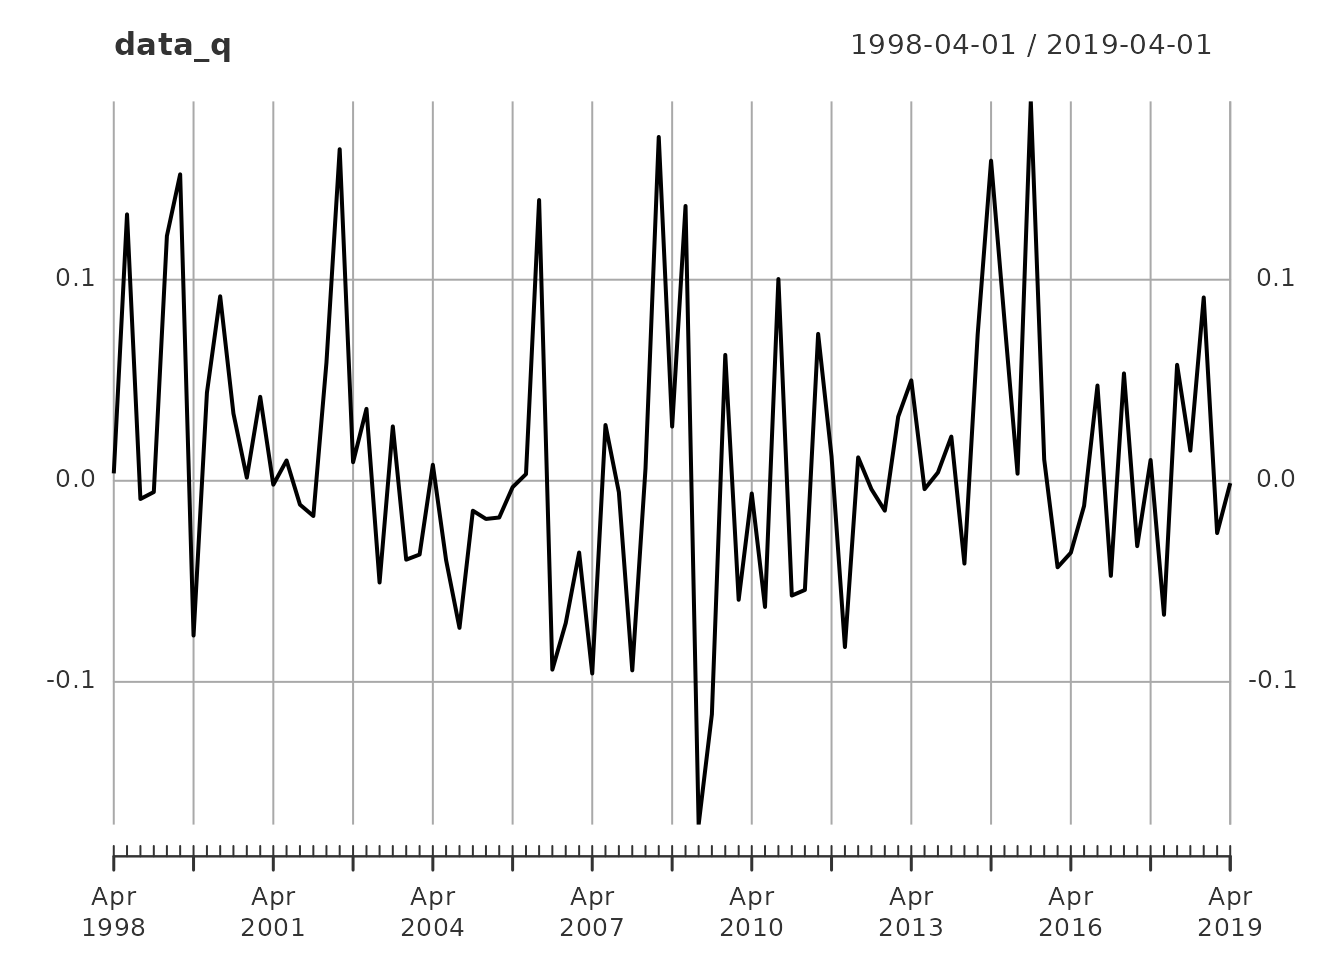
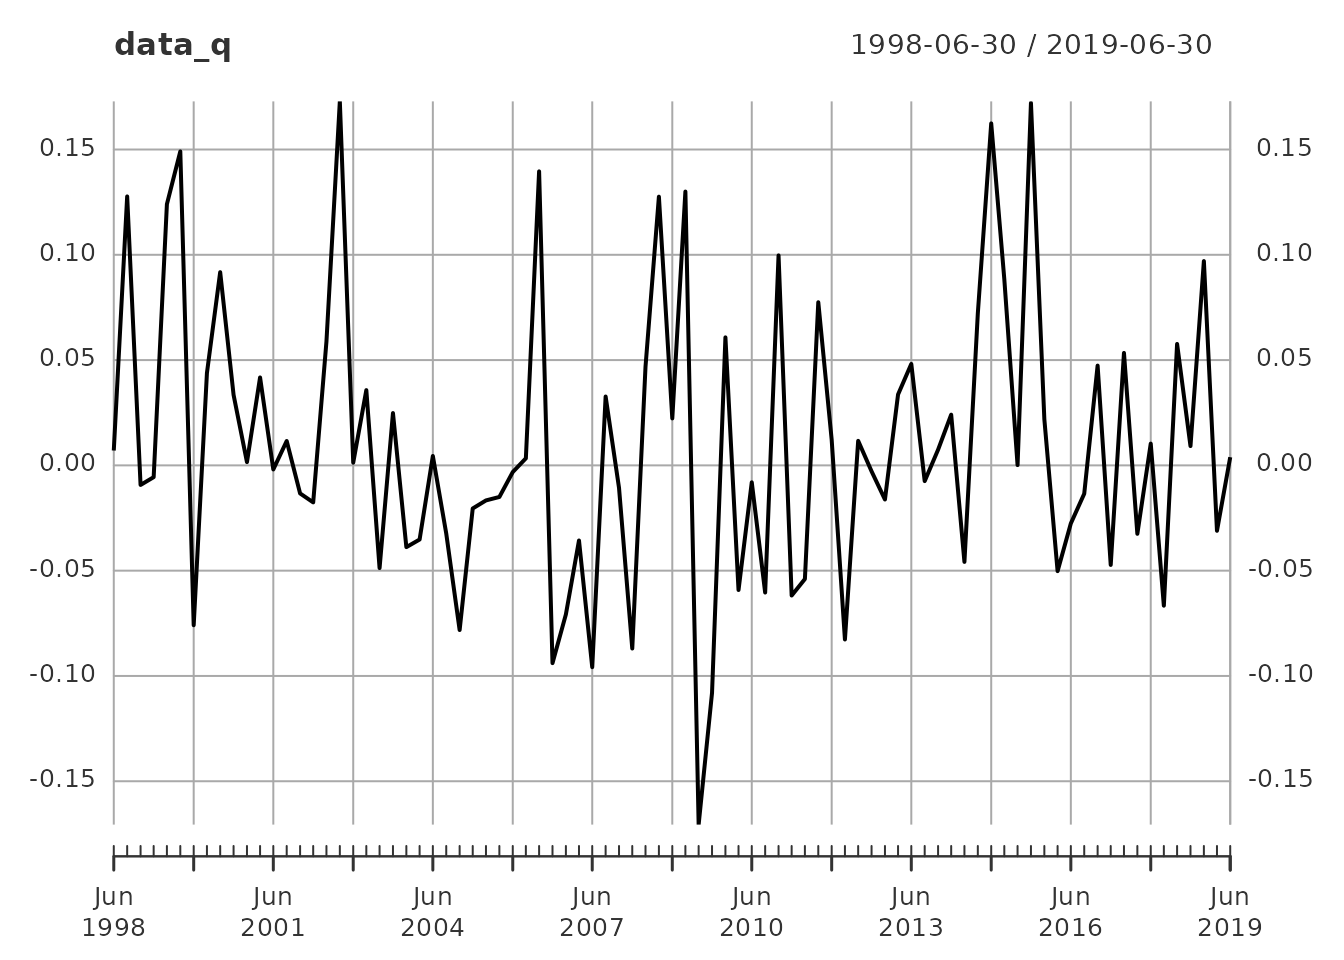
Deploying to gh-pages from @ DavRodEcon/citmre@9d1c96cf8fecd703104b880e12ba91e42f415033 🚀

diff --git a/articles/citmre.html b/articles/citmre.html
@@ -197,20 +197,20 @@ By default, the <code>type</code> is set to <code>last_date</code>.</p>
 <span><span class="va">data_m</span> <span class="op">&lt;-</span> <span class="fu"><a href="../reference/rmre_data.html">rmre_data</a></span><span class="op">(</span>start_date <span class="op">=</span> <span class="st">"1998-03-18"</span>, end_date <span class="op">=</span> <span class="st">"2019-06-26"</span>,frequency <span class="op">=</span> <span class="fl">12</span><span class="op">)</span></span>
 <span><span class="fu"><a href="https://rdrr.io/r/utils/head.html" class="external-link">head</a></span><span class="op">(</span><span class="va">data_m</span><span class="op">)</span></span>
 <span><span class="co">#&gt;               rmre</span></span>
-<span><span class="co">#&gt; 1998-03-01 1358.03</span></span>
-<span><span class="co">#&gt; 1998-04-01 1365.72</span></span>
-<span><span class="co">#&gt; 1998-05-01 1396.69</span></span>
-<span><span class="co">#&gt; 1998-06-01 1363.04</span></span>
-<span><span class="co">#&gt; 1998-07-01 1370.65</span></span>
-<span><span class="co">#&gt; 1998-08-01 1440.87</span></span>
+<span><span class="co">#&gt; 1998-03-31 1360.26</span></span>
+<span><span class="co">#&gt; 1998-04-30 1365.72</span></span>
+<span><span class="co">#&gt; 1998-05-31 1397.07</span></span>
+<span><span class="co">#&gt; 1998-06-30 1369.88</span></span>
+<span><span class="co">#&gt; 1998-07-31 1370.65</span></span>
+<span><span class="co">#&gt; 1998-08-31 1441.86</span></span>
 <span><span class="fu"><a href="https://rdrr.io/r/utils/head.html" class="external-link">tail</a></span><span class="op">(</span><span class="va">data_m</span><span class="op">)</span></span>
 <span><span class="co">#&gt;               rmre</span></span>
-<span><span class="co">#&gt; 2019-01-01 3163.46</span></span>
-<span><span class="co">#&gt; 2019-02-01 3072.01</span></span>
-<span><span class="co">#&gt; 2019-03-01 3190.94</span></span>
-<span><span class="co">#&gt; 2019-04-01 3247.72</span></span>
-<span><span class="co">#&gt; 2019-05-01 3357.82</span></span>
-<span><span class="co">#&gt; 2019-06-01 3187.15</span></span>
+<span><span class="co">#&gt; 2019-01-31 3115.70</span></span>
+<span><span class="co">#&gt; 2019-02-28 3077.35</span></span>
+<span><span class="co">#&gt; 2019-03-31 3174.79</span></span>
+<span><span class="co">#&gt; 2019-04-30 3247.72</span></span>
+<span><span class="co">#&gt; 2019-05-31 3357.82</span></span>
+<span><span class="co">#&gt; 2019-06-30 3187.15</span></span>
 <span><span class="fu"><a href="https://rdrr.io/r/graphics/plot.default.html" class="external-link">plot</a></span><span class="op">(</span><span class="va">data_m</span><span class="op">)</span></span></code></pre></div>
 <p><img src="citmre_files/figure-html/plot_456-1.png" width="672" style="display: block; margin: auto;"></p>
 <div class="sourceCode" id="cb6"><pre class="downlit sourceCode r">
@@ -219,20 +219,20 @@ By default, the <code>type</code> is set to <code>last_date</code>.</p>
 <span><span class="va">data_q</span> <span class="op">&lt;-</span> <span class="fu"><a href="../reference/rmre_data.html">rmre_data</a></span><span class="op">(</span>start_date <span class="op">=</span> <span class="st">"1998-03-18"</span>, end_date <span class="op">=</span> <span class="st">"2019-06-26"</span>,frequency <span class="op">=</span> <span class="fl">4</span>, log_return <span class="op">=</span> <span class="cn">T</span><span class="op">)</span></span>
 <span><span class="fu"><a href="https://rdrr.io/r/utils/head.html" class="external-link">head</a></span><span class="op">(</span><span class="va">data_q</span><span class="op">)</span></span>
 <span><span class="co">#&gt;              log_return</span></span>
-<span><span class="co">#&gt; 1998-04-01  0.003682379</span></span>
-<span><span class="co">#&gt; 1998-07-01  0.132497323</span></span>
-<span><span class="co">#&gt; 1998-10-01 -0.009063214</span></span>
-<span><span class="co">#&gt; 1999-01-01 -0.005592383</span></span>
-<span><span class="co">#&gt; 1999-04-01  0.121775320</span></span>
-<span><span class="co">#&gt; 1999-07-01  0.152410567</span></span>
+<span><span class="co">#&gt; 1998-06-30  0.007047287</span></span>
+<span><span class="co">#&gt; 1998-09-30  0.127729415</span></span>
+<span><span class="co">#&gt; 1998-12-31 -0.009300952</span></span>
+<span><span class="co">#&gt; 1999-03-31 -0.005592383</span></span>
+<span><span class="co">#&gt; 1999-06-30  0.124041672</span></span>
+<span><span class="co">#&gt; 1999-09-30  0.149092737</span></span>
 <span><span class="fu"><a href="https://rdrr.io/r/utils/head.html" class="external-link">tail</a></span><span class="op">(</span><span class="va">data_q</span><span class="op">)</span></span>
 <span><span class="co">#&gt;              log_return</span></span>
-<span><span class="co">#&gt; 2018-01-01 -0.066645308</span></span>
-<span><span class="co">#&gt; 2018-04-01  0.057674061</span></span>
-<span><span class="co">#&gt; 2018-07-01  0.014993532</span></span>
-<span><span class="co">#&gt; 2018-10-01  0.091188013</span></span>
-<span><span class="co">#&gt; 2019-01-01 -0.026005378</span></span>
-<span><span class="co">#&gt; 2019-04-01 -0.001188444</span></span>
+<span><span class="co">#&gt; 2018-03-31 -0.066645308</span></span>
+<span><span class="co">#&gt; 2018-06-30  0.057674061</span></span>
+<span><span class="co">#&gt; 2018-09-30  0.009156313</span></span>
+<span><span class="co">#&gt; 2018-12-31  0.097025232</span></span>
+<span><span class="co">#&gt; 2019-03-31 -0.031079434</span></span>
+<span><span class="co">#&gt; 2019-06-30  0.003885612</span></span>
 <span><span class="fu"><a href="https://rdrr.io/r/graphics/plot.default.html" class="external-link">plot</a></span><span class="op">(</span><span class="va">data_q</span><span class="op">)</span></span></code></pre></div>
 <p><img src="citmre_files/figure-html/plot_456-2.png" width="672" style="display: block; margin: auto;"></p>
 <div class="sourceCode" id="cb7"><pre class="downlit sourceCode r">
@@ -241,20 +241,20 @@ By default, the <code>type</code> is set to <code>last_date</code>.</p>
 <span><span class="va">data_s</span> <span class="op">&lt;-</span> <span class="fu"><a href="../reference/rmre_data.html">rmre_data</a></span><span class="op">(</span>start_date <span class="op">=</span> <span class="st">"1998-03-18"</span>, end_date <span class="op">=</span> <span class="st">"2019-06-26"</span>,frequency <span class="op">=</span> <span class="fl">2</span>, type <span class="op">=</span> <span class="st">"mean"</span><span class="op">)</span></span>
 <span><span class="fu"><a href="https://rdrr.io/r/utils/head.html" class="external-link">head</a></span><span class="op">(</span><span class="va">data_s</span><span class="op">)</span></span>
 <span><span class="co">#&gt;                rmre</span></span>
-<span><span class="co">#&gt; 1998-01-01 1375.469</span></span>
-<span><span class="co">#&gt; 1998-07-01 1492.311</span></span>
-<span><span class="co">#&gt; 1999-01-01 1598.964</span></span>
-<span><span class="co">#&gt; 1999-07-01 1914.659</span></span>
-<span><span class="co">#&gt; 2000-01-01 1998.886</span></span>
-<span><span class="co">#&gt; 2000-07-01 2176.997</span></span>
+<span><span class="co">#&gt; 1998-06-30 1375.387</span></span>
+<span><span class="co">#&gt; 1998-12-31 1493.306</span></span>
+<span><span class="co">#&gt; 1999-06-30 1600.087</span></span>
+<span><span class="co">#&gt; 1999-12-31 1916.123</span></span>
+<span><span class="co">#&gt; 2000-06-30 1998.886</span></span>
+<span><span class="co">#&gt; 2000-12-31 2176.997</span></span>
 <span><span class="fu"><a href="https://rdrr.io/r/utils/head.html" class="external-link">tail</a></span><span class="op">(</span><span class="va">data_s</span><span class="op">)</span></span>
 <span><span class="co">#&gt;                rmre</span></span>
-<span><span class="co">#&gt; 2016-07-01 2979.731</span></span>
-<span><span class="co">#&gt; 2017-01-01 2921.711</span></span>
-<span><span class="co">#&gt; 2017-07-01 2980.267</span></span>
-<span><span class="co">#&gt; 2018-01-01 2849.155</span></span>
-<span><span class="co">#&gt; 2018-07-01 3060.683</span></span>
-<span><span class="co">#&gt; 2019-01-01 3187.564</span></span>
+<span><span class="co">#&gt; 2016-12-31 2980.250</span></span>
+<span><span class="co">#&gt; 2017-06-30 2921.711</span></span>
+<span><span class="co">#&gt; 2017-12-31 2980.267</span></span>
+<span><span class="co">#&gt; 2018-06-30 2849.155</span></span>
+<span><span class="co">#&gt; 2018-12-31 3060.683</span></span>
+<span><span class="co">#&gt; 2019-06-30 3187.564</span></span>
 <span><span class="fu"><a href="https://rdrr.io/r/graphics/plot.default.html" class="external-link">plot</a></span><span class="op">(</span><span class="va">data_s</span><span class="op">)</span></span></code></pre></div>
 <p><img src="citmre_files/figure-html/plot_456-3.png" width="672" style="display: block; margin: auto;"></p>
 <p>Finally, some researchers feel that displaying a dynamic graph
